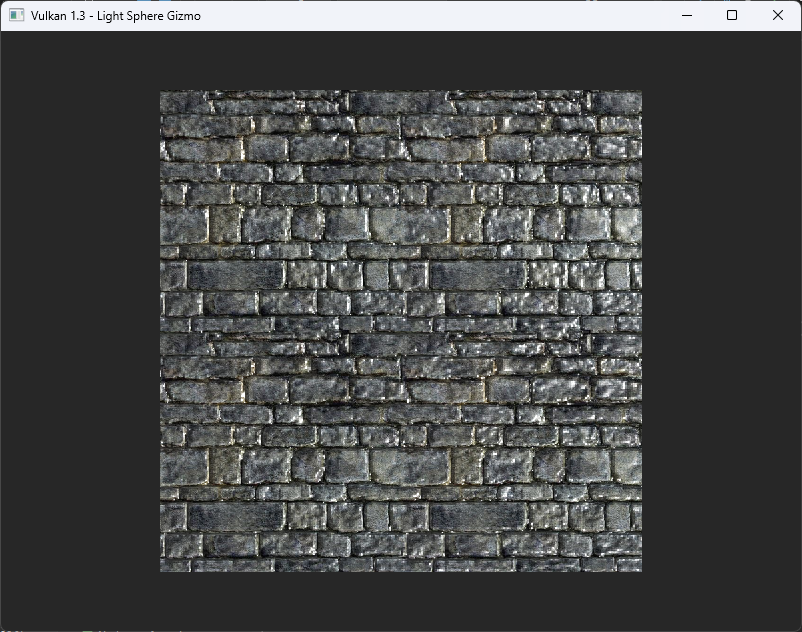
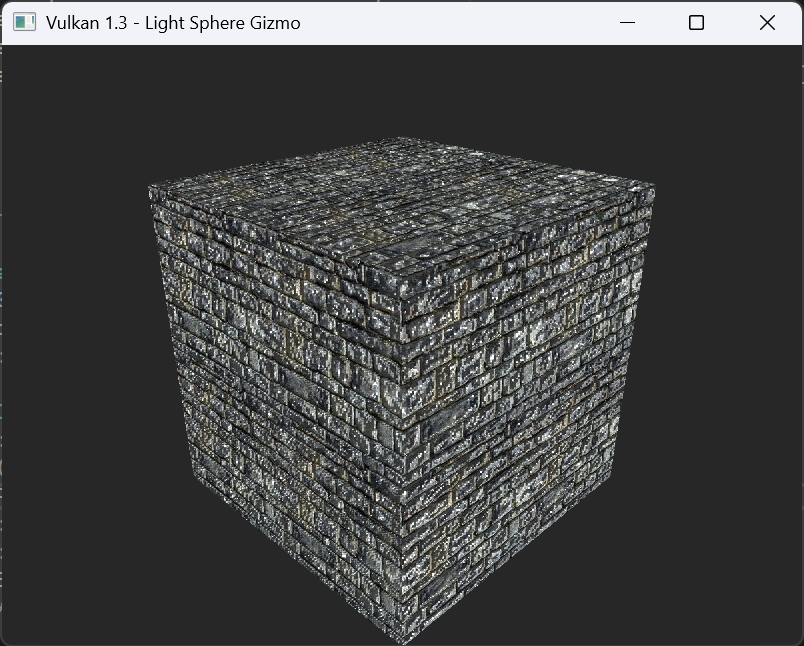
ex3 done!!

diff --git a/Lab_Tutorial_Template.cpp b/Lab_Tutorial_Template.cpp
@@ -1327,9 +1327,9 @@ void HelloTriangleApplication::updateUniformBuffer(uint32_t frame) {
     float t = std::chrono::duration<float>(now - t0).count();
 
     UniformBufferObject u{};
-    u.model = glm::rotate(glm::mat4(1.0f), glm::radians(0.0f),
+    u.model = glm::rotate(glm::mat4(1.0f), glm::radians(45.0f),
         glm::vec3(0.0f, 1.0f, 0.0f));
-    glm::vec3 camPos = glm::vec3(0.0f, 0.0f, 2.0f);
+    glm::vec3 camPos = glm::vec3(0.0f, 1.0f, 2.0f);
     u.view = glm::lookAt(camPos, glm::vec3(0.0f), glm::vec3(0.0f, 1.0f, 0.0f));
     u.proj = glm::perspective(glm::radians(45.0f),
         swapChainExtent.width / (float)swapChainExtent.height, 0.1f, 10.0f);

diff --git a/Week_7/lab_book.md b/Week_7/lab_book.md
@@ -188,19 +188,36 @@ between vertex and fragment shaders.
 
 **Solution:**
 
+- Gray Scale Height Map:
+```c++
+float h = texture(heightSampler, vUV).r;
+vec3 albedo = vec3(h);
+```
+
 - Fragment Shader Modifications:
 ```c++
-float h = texture(heightSampler, vUV).r;                    
-float dhdx = dFdx(h);                                         
-float dhdy = dFdy(h);                                           
-float bumpHeight = 0.4;                                         
+vec3 albedo = texture(colSampler, vUV).rgb;
+float h = texture(heightSampler, vUV).r;
 
-// build a pseudo-normal from height gradients
-vec3 N_tangent = normalize(vec3(-dhdx, -dhdy, bumpHeight));     
+float dhdx = dFdx(h);
+float dhdy = dFdy(h);
 
-vec3 L = normalize(fragLightDir_tangent);
-vec3 V = normalize(fragViewDir_tangent);
+float bumpStrength = 50.0;
+vec3 bumpN = normalize(vec3(-dhdx * bumpStrength, -dhdy * bumpStrength, 1.0));
+
+vec3 L = normalize(ubo.lightPos - vWorldPos);
+vec3 V = normalize(ubo.eyePos  - vWorldPos);
 vec3 H = normalize(L + V);
+
+float diff = max(dot(bumpN, L), 0.0);
+float spec = pow(max(dot(bumpN, H), 0.0), 32.0);
+
+vec3 ambient  = 0.15 * albedo;
+vec3 diffuse  = diff * albedo;
+vec3 specular = spec * vec3(1.0);
+
+vec3 result = ambient + diffuse + specular;
+outColor = vec4(result, 1.0);
 ```
 
 **Output:**
@@ -220,7 +237,7 @@ combined image sampler and kept the same descriptor layout so that the fragment 
 ![](Images/ex3_flat))
 
 - Height Map:
-![](Images/ex3_height)
+![](Images/ex3_gray)
 
 
 **Reflection:**
